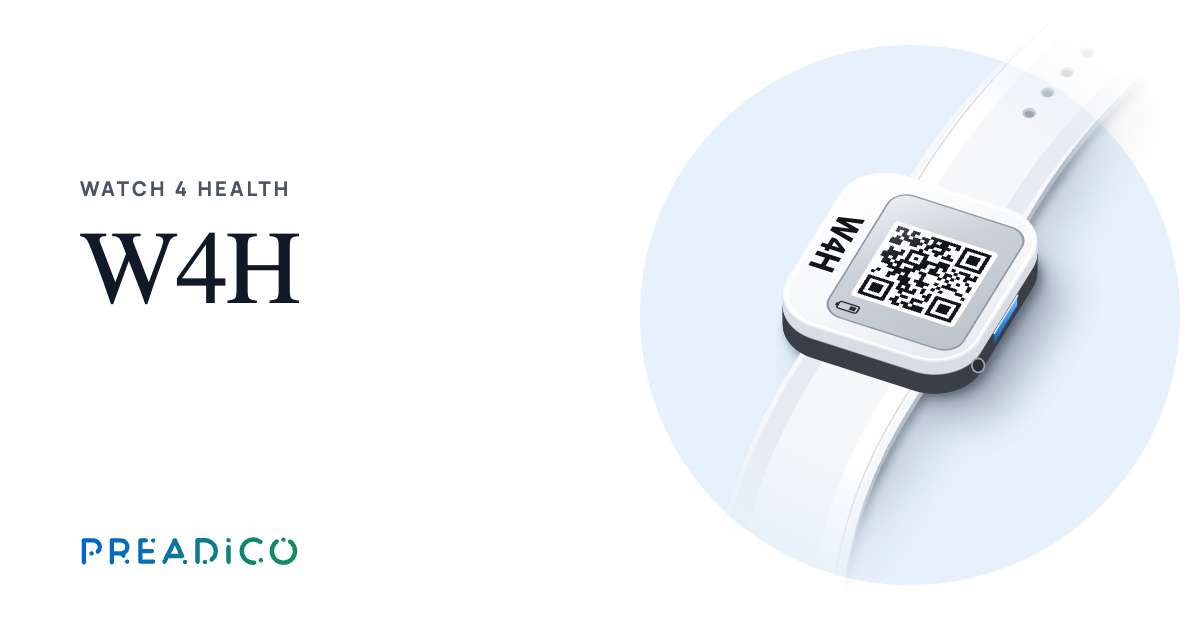
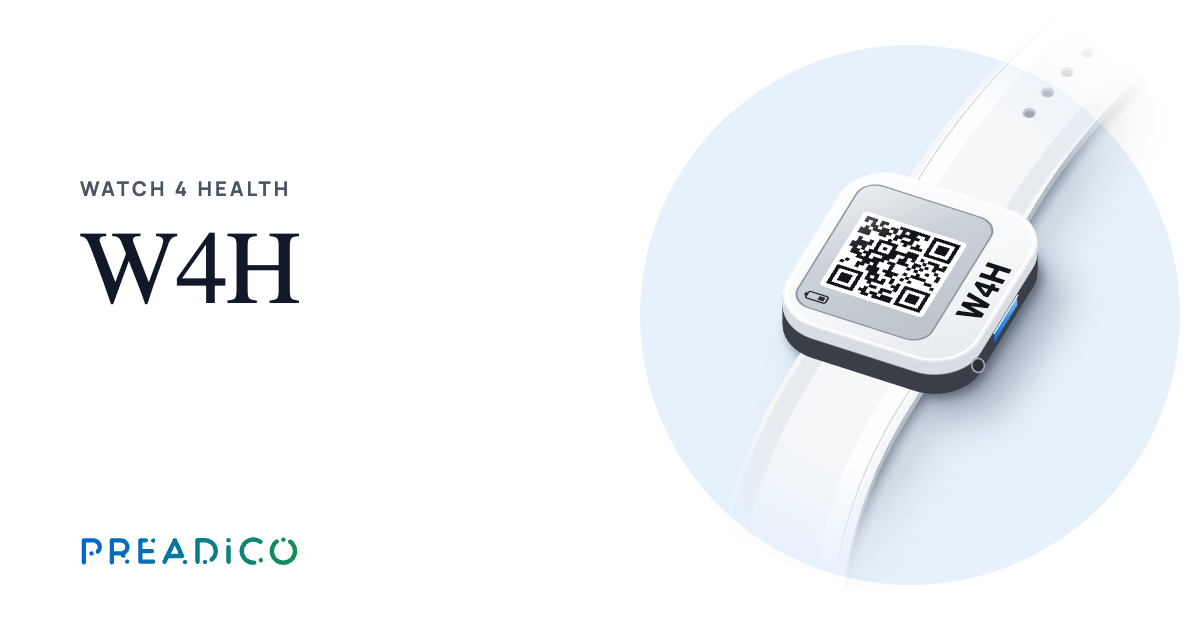
Add Solutions submenu to the header; rotate the whole watch face
- Header: "Řešení"/"Solutions" opens a submenu with the three solution
  pages (name and short description). Opens on hover with a mouse and on
  click/Enter otherwise; Escape, click outside or focus leaving closes it.
  The current solution page is highlighted. The phone menu lists the three
  pages under "Řešení".
- Watch illustration: rotate the whole face 180° so the display sits on
  the left and the "W4H" label on the right (previously only the display
  contents were rotated). Lighting kept; share image re-rendered.

Changed region(s): [[0.6475, 0.3016, 0.8633, 0.573]]

diff --git a/src/styles/global.css b/src/styles/global.css
@@ -299,8 +299,8 @@ main, .site-footer { overflow-x: clip; }
 .site-header__actions { display: flex; align-items: center; gap: 16px; }
 
 .main-nav__list { display: flex; align-items: center; gap: 22px; }
-.main-nav__list li + li { display: flex; align-items: center; gap: 22px; }
-.main-nav__list li + li::before { content: "/"; color: #9CA3AF; }
+.main-nav__list > li + li { display: flex; align-items: center; gap: 22px; }
+.main-nav__list > li + li::before { content: "/"; color: #9CA3AF; }
 .nav-link { position: relative; display: inline-block; padding: 8px 0; color: var(--ink); font-size: 15px; font-weight: 500; transition: color .2s, var(--focus-tr); }
 .nav-link::after {
   content: ""; position: absolute; left: 0; right: 0; bottom: 2px; height: 1.5px; background: currentColor;
@@ -308,6 +308,28 @@ main, .site-footer { overflow-x: clip; }
 }
 .nav-link:hover::after, .nav-link:focus-visible::after, .nav-link[aria-current="true"]::after { transform: scaleX(1); transform-origin: left; }
 .nav-link[aria-current="true"] { color: var(--blue); }
+button.nav-link { display: inline-flex; align-items: center; gap: 6px; border: 0; background: none; cursor: pointer; }
+.nav-link__chevron { width: 14px; height: 14px; transition: transform .35s var(--ease-out); }
+.nav-link[aria-expanded="true"] .nav-link__chevron { transform: rotate(180deg); }
+
+/* Podnabídka „Řešení“ */
+.nav-item--sub { position: relative; }
+.submenu {
+  position: absolute; left: -16px; top: calc(100% + 12px); z-index: 10; width: 340px;
+  padding: 8px; border: 1px solid var(--line); border-radius: 16px; background: #fff;
+  box-shadow: 0 24px 50px rgba(17, 24, 39, .14);
+  opacity: 0; visibility: hidden; transform: translateY(-6px);
+  transition: opacity .2s ease, transform .3s var(--ease-out), visibility 0s linear .3s;
+}
+.submenu::before { content: ""; position: absolute; left: 0; right: 0; bottom: 100%; height: 14px; } /* most přes mezeru pro myš */
+[aria-expanded="true"] + .submenu,
+.no-js .nav-item--sub:hover .submenu,
+.no-js .nav-item--sub:focus-within .submenu { opacity: 1; visibility: visible; transform: none; transition: opacity .2s ease, transform .3s var(--ease-out), visibility 0s; }
+.submenu a { display: flex; flex-direction: column; gap: 2px; padding: 11px 14px; border-radius: 10px; color: var(--ink); transition: background-color .2s ease, var(--focus-tr); }
+.submenu a:hover, .submenu a:focus-visible, .submenu a[aria-current="page"] { background: var(--c, var(--neutral)); }
+.submenu__title { font-size: 15px; font-weight: 700; line-height: 1.35; }
+.submenu__text { font-size: 13px; line-height: 1.4; color: var(--ink-3); }
+.submenu a[aria-current="page"] .submenu__title { color: var(--blue); }
 
 .menu-toggle {
   display: none; place-items: center; width: 44px; height: 44px; padding: 0;
@@ -328,6 +350,10 @@ main, .site-footer { overflow-x: clip; }
   transition: color .2s, padding-left .3s var(--ease), var(--focus-tr);
 }
 .mobile-menu__list a:hover, .mobile-menu__list a:focus-visible { color: var(--blue); padding-left: 6px; }
+.mobile-menu__label { display: flex; align-items: center; min-height: 56px; font-family: var(--serif); font-size: 28px; color: var(--ink); }
+.mobile-menu__sub { padding: 0 0 10px 18px; border-bottom: 1px solid var(--line); }
+.mobile-menu__list .mobile-menu__sub a { min-height: 44px; border-bottom: 0; font-family: var(--sans); font-size: 17px; font-weight: 600; }
+.mobile-menu__list a[aria-current="page"] { color: var(--blue); }
 .js .mobile-menu.is-open { animation: menuIn .4s var(--ease-out); }
 .js .mobile-menu.is-open .mobile-menu__list li { animation: rise .5s var(--ease-out) both; }
 .js .mobile-menu.is-open .mobile-menu__list li:nth-child(2) { animation-delay: .05s; }
